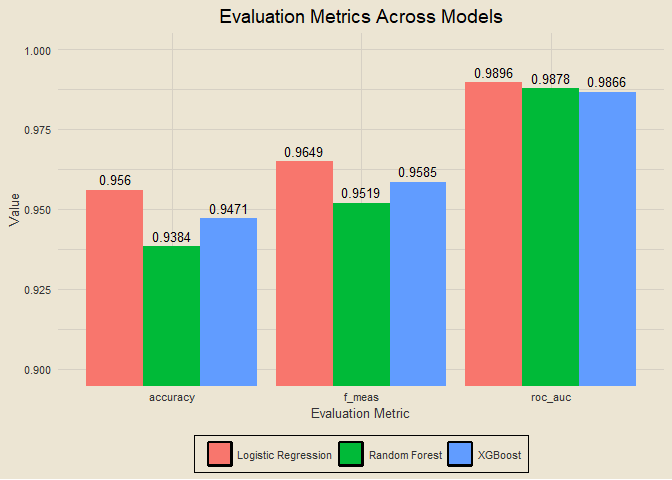
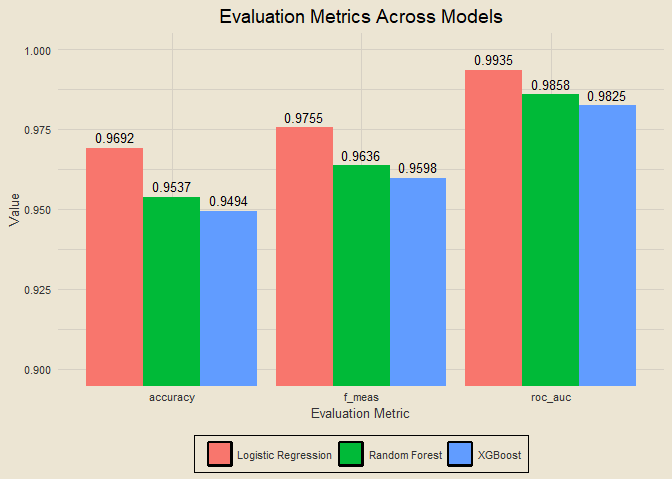
new commit

Changed region(s): [[0.125, 0.2812, 0.4062, 0.5312], [0.4062, 0.2188, 0.6562, 0.4375], [0.6875, 0.0938, 0.9688, 0.2188]]

diff --git a/README.md b/README.md
@@ -15,6 +15,8 @@ Link](https://www.kaggle.com/datasets/uciml/breast-cancer-wisconsin-data)
 - [Checking for Missing Data](#checking-for-missing-data)
 - [Exploratory Data Analysis](#exploratory-data-analysis)
 - [Modeling](#modeling)
+- [Final Metrics](#final-metrics)
+- [Script Runtime](#script-runtime)
 
 ### Setup
 
@@ -27,6 +29,7 @@ library(tvthemes)
 library(janitor)
 library(patchwork)
 library(ggcorrplot)
+library(vip)
 
 theme_custom = theme_avatar() +
   theme(plot.title = element_text(hjust = 0.5),
@@ -887,7 +890,7 @@ pre_rec = recipe(diagnosis ~ ., data = df2) |>
   # removes predictors with zero variance
   step_zv(all_predictors()) |>
   # removes highly-correlated predictors, we can control the threshold at which they are removed
-  step_corr(all_predictors(), threshold = 0.8, method = "spearman")
+  step_corr(all_predictors(), threshold = 0.9, method = "spearman")
 
 pre_rec
 ```
@@ -934,25 +937,26 @@ pre_rec |>
 
 </details>
 
-    ## # A tibble: 10 × 18
-    ##           id texture_…¹ area_…² smooth…³ symme…⁴ fract…⁵ radiu…⁶ textu…⁷ smoot…⁸
-    ##        <dbl>      <dbl>   <dbl>    <dbl>   <dbl>   <dbl>   <dbl>   <dbl>   <dbl>
-    ##  1   8911834     -0.956  -0.192 -0.0853    1.09  -0.604  -0.567  -0.539   -0.935
-    ##  2   8810158      0.756  -0.357  0.273     0.140  1.46   -0.765  -0.534   -0.596
-    ##  3  84667401      0.772  -0.218  1.19      0.939  1.99   -0.696  -0.0867  -0.204
-    ##  4    884689     -1.01   -0.706  0.351     0.260 -0.158  -0.537  -0.324   -0.126
-    ##  5   9113514     -0.277  -1.05  -0.942    -0.480  0.187  -0.229   0.172    1.31 
-    ##  6   8812816     -1.43   -0.244  0.00709  -1.65   0.0910 -0.703  -1.42    -0.969
-    ##  7 911320502     -0.249  -0.334 -1.54     -1.30  -1.04   -0.732  -0.964   -0.357
-    ##  8    895299     -0.316  -0.594 -1.39     -1.57  -0.297  -0.619  -0.557   -0.770
-    ##  9    921092      1.44   -1.35  -1.09      0.213  1.42   -0.0991  0.444    1.87 
-    ## 10   8810436     -1.48    0.201 -1.03     -1.65  -1.07   -0.692  -1.55    -0.916
-    ## # … with 9 more variables: compactness_se <dbl>, concave_points_se <dbl>,
-    ## #   symmetry_se <dbl>, fractal_dimension_se <dbl>, smoothness_worst <dbl>,
+    ## # A tibble: 10 × 20
+    ##          id texture_…¹ area_…² smooth…³ conca…⁴ symme…⁵ fract…⁶ radiu…⁷ textur…⁸
+    ##       <dbl>      <dbl>   <dbl>    <dbl>   <dbl>   <dbl>   <dbl>   <dbl>    <dbl>
+    ##  1   868682     -0.907 -0.725   0.00211 -0.520   -0.283  -0.587  -0.827 -4.04e-1
+    ##  2   869254     -1.00  -0.851  -1.31    -1.06    -1.51   -0.838  -0.551  4.01e-2
+    ##  3  8712853     -0.544  0.0881  0.156   -0.286   -0.115  -0.892  -0.483  2.66e-4
+    ##  4   925311      2.34  -0.764  -1.56    -1.26    -2.74   -1.10   -0.328  4.86e+0
+    ##  5   911654      0.288 -0.104  -0.501   -0.473   -1.11   -0.383  -0.207 -3.60e-1
+    ##  6   859575      0.470  1.35   -0.446    0.788   -0.838  -1.16    1.38  -7.60e-1
+    ##  7   905190      0.484 -0.399  -1.48    -0.780   -0.845  -0.235   0.339  1.05e+0
+    ##  8   877486      0.744  1.40   -0.791    0.485   -0.163  -1.06    0.110 -2.61e-1
+    ##  9 88143502     -1.35  -0.0389  0.192   -0.0745   0.961  -1.18    0.421 -7.34e-1
+    ## 10  8911670      0.161  1.27   -0.507    0.245   -0.954  -1.82   -0.277 -7.05e-1
+    ## # … with 11 more variables: smoothness_se <dbl>, compactness_se <dbl>,
+    ## #   concavity_se <dbl>, concave_points_se <dbl>, symmetry_se <dbl>,
+    ## #   fractal_dimension_se <dbl>, smoothness_worst <dbl>,
     ## #   compactness_worst <dbl>, symmetry_worst <dbl>,
     ## #   fractal_dimension_worst <dbl>, diagnosis <fct>, and abbreviated variable
-    ## #   names ¹texture_mean, ²area_mean, ³smoothness_mean, ⁴symmetry_mean,
-    ## #   ⁵fractal_dimension_mean, ⁶radius_se, ⁷texture_se, ⁸smoothness_se
+    ## #   names ¹texture_mean, ²area_mean, ³smoothness_mean, ⁴concave_points_mean,
+    ## #   ⁵symmetry_mean, ⁶fractal_dimension_mean, ⁷radius_se, ⁸texture_se
 
 ### Building Cross Validation Folds
 
@@ -1038,9 +1042,9 @@ log_res |>
     ## # A tibble: 3 × 3
     ##   .metric   mean std_err
     ##   <chr>    <dbl>   <dbl>
-    ## 1 accuracy 0.956 0.00597
-    ## 2 f_meas   0.965 0.00488
-    ## 3 roc_auc  0.990 0.00372
+    ## 1 accuracy 0.969 0.0101 
+    ## 2 f_meas   0.975 0.00802
+    ## 3 roc_auc  0.994 0.00257
 
 ### Building Random Forest Specification and Workflow
 
@@ -1105,9 +1109,9 @@ rf_res |>
     ## # A tibble: 3 × 3
     ##   .metric   mean std_err
     ##   <chr>    <dbl>   <dbl>
-    ## 1 accuracy 0.938 0.0145 
-    ## 2 f_meas   0.952 0.0109 
-    ## 3 roc_auc  0.988 0.00454
+    ## 1 accuracy 0.954 0.0122 
+    ## 2 f_meas   0.964 0.00956
+    ## 3 roc_auc  0.986 0.00757
 
 ### Building XGBoost Specification and Workflow
 
@@ -1169,9 +1173,9 @@ xgb_res |>
     ## # A tibble: 3 × 3
     ##   .metric   mean std_err
     ##   <chr>    <dbl>   <dbl>
-    ## 1 accuracy 0.947 0.0145 
-    ## 2 f_meas   0.958 0.0111 
-    ## 3 roc_auc  0.987 0.00586
+    ## 1 accuracy 0.949 0.0108 
+    ## 2 f_meas   0.960 0.00857
+    ## 3 roc_auc  0.982 0.00789
 
 ### Comparing Model Results
 
@@ -1215,11 +1219,12 @@ three_mod_res |>
 
 ![](README_files/figure-gfm/unnamed-chunk-50-1.png)<!-- -->
 
-After this initial modeling step, we have achieved an accuracy of 95.6%,
-an F1 score of 96.49%, and an AUC value of 98.96% with a logistic
-regression model. We have achieved similar results with our random
-forest and XGBoost models as well, and will now tune the hyperparameters
-for those models to see if we can improve upon our current results.
+After this initial modeling step, we have achieved an accuracy of
+96.92%, an F1 score of 97.55%, and an AUC value of 99.35% with a
+logistic regression model. We have achieved similar results with our
+random forest and XGBoost models as well, and will now tune the
+hyperparameters for those models to see if we can improve upon our
+current results.
 
 ### Random Forest Tuning
 
@@ -1260,11 +1265,11 @@ tune_res |>
     ## # A tibble: 5 × 8
     ##    mtry min_n .metric  .estimator  mean     n std_err .config              
     ##   <int> <int> <chr>    <chr>      <dbl> <int>   <dbl> <chr>                
-    ## 1     2    11 accuracy binary     0.945     5  0.0125 Preprocessor1_Model20
-    ## 2     2    18 accuracy binary     0.941     5  0.0141 Preprocessor1_Model04
-    ## 3     9     5 accuracy binary     0.941     5  0.0169 Preprocessor1_Model06
-    ## 4    14     8 accuracy binary     0.938     5  0.0169 Preprocessor1_Model16
-    ## 5     5    16 accuracy binary     0.938     5  0.0189 Preprocessor1_Model18
+    ## 1     5     3 accuracy binary     0.956     5  0.0125 Preprocessor1_Model05
+    ## 2     4     9 accuracy binary     0.956     5  0.0125 Preprocessor1_Model25
+    ## 3     2    17 accuracy binary     0.956     5  0.0120 Preprocessor1_Model04
+    ## 4     2    29 accuracy binary     0.954     5  0.0145 Preprocessor1_Model08
+    ## 5     3    25 accuracy binary     0.952     5  0.0108 Preprocessor1_Model12
 
 ### XGBoost Tuning
 
@@ -1300,11 +1305,11 @@ xgb_res |>
     ## # A tibble: 5 × 12
     ##    mtry min_n tree_depth learn_rate loss_r…¹ sampl…² .metric .esti…³  mean     n
     ##   <int> <int>      <int>      <dbl>    <dbl>   <dbl> <chr>   <chr>   <dbl> <int>
-    ## 1    32    12         14 0.00542     2.17e-9   0.810 roc_auc binary  0.983     5
-    ## 2     7     2          6 0.00000995  1.61e-6   0.829 roc_auc binary  0.978     5
-    ## 3     2    14         11 0.00122     5.90e-3   0.636 roc_auc binary  0.975     5
-    ## 4    14    22         12 0.0176      4.34e-4   0.891 roc_auc binary  0.973     5
-    ## 5     2     6         10 0.00000320  2.72e-7   0.313 roc_auc binary  0.972     5
+    ## 1    28     8         15  0.0745    7.18e- 4   0.861 roc_auc binary  0.990     5
+    ## 2     5     3          8  0.00581   2.62e-10   0.529 roc_auc binary  0.989     5
+    ## 3    25     5          8  0.0238    5.00e- 8   0.300 roc_auc binary  0.985     5
+    ## 4    15    13          9  0.0000187 4.27e- 8   0.919 roc_auc binary  0.984     5
+    ## 5    23     6          4  0.00674   2.16e- 1   0.345 roc_auc binary  0.984     5
     ## # … with 2 more variables: std_err <dbl>, .config <chr>, and abbreviated
     ## #   variable names ¹loss_reduction, ²sample_size, ³.estimator
 
@@ -1349,12 +1354,87 @@ data.frame(model = c("Logistic Regression", "Random Forest", "XGBoost"),
   ggplot(aes(metric, value)) +
   geom_col(aes(fill = model), position = "dodge") +
   geom_text(aes(label = value), position = position_dodge2(width = 0.9), vjust = -0.5, size = 3.5) +
-  labs(title = "Post-Tuning Model Comparison", fill = NULL, x = "Evaluation Metric", y = "Value")
+  labs(title = "Post-Tuning Model Comparison", fill = NULL, x = "Evaluation Metric", y = "Value") +
+  coord_cartesian(ylim = c(0, 1.05))
 ```
 
 </details>
 
 ![](README_files/figure-gfm/unnamed-chunk-53-1.png)<!-- -->
+
+After model tuning, it looks like the best model is either our logistic
+regression or random forest. The logistic regression tends to have a
+higher accuracy, but the random forest tends to have a larger area under
+the curve. I’ll choose to move forward with the random forest.
+
+### Finalizing Model
+
+<details>
+<summary>
+View Code
+</summary>
+
+``` r
+best_auc = select_best(tune_res, metric = "roc_auc")
+final_rf = finalize_model(tune_spec, best_auc)
+final_rf
+```
+
+</details>
+
+    ## Random Forest Model Specification (classification)
+    ## 
+    ## Main Arguments:
+    ##   mtry = 4
+    ##   trees = 1000
+    ##   min_n = 9
+    ## 
+    ## Computational engine: ranger
+
+### Fitting Final Model and Getting Variable Importance
+
+<details>
+<summary>
+View Code
+</summary>
+
+``` r
+final_rf |>
+  set_engine("ranger", importance = "permutation") |>
+  fit(diagnosis ~ ., data = juice(prep(pre_rec)) |> select(-id)) |>
+  vip(geom = "point")
+```
+
+</details>
+
+![](README_files/figure-gfm/unnamed-chunk-55-1.png)<!-- -->
+
+### Final Metrics
+
+<details>
+<summary>
+View Code
+</summary>
+
+``` r
+final_wf = workflow() |>
+  add_recipe(pre_rec) |>
+  add_model(final_rf)
+
+final_res = final_wf |>
+  last_fit(data_split)
+
+final_res |>
+  collect_metrics()
+```
+
+</details>
+
+    ## # A tibble: 2 × 4
+    ##   .metric  .estimator .estimate .config             
+    ##   <chr>    <chr>          <dbl> <chr>               
+    ## 1 accuracy binary         0.939 Preprocessor1_Model1
+    ## 2 roc_auc  binary         0.987 Preprocessor1_Model1
 
 ### Script Runtime
 
@@ -1362,4 +1442,4 @@ data.frame(model = c("Logistic Regression", "Random Forest", "XGBoost"),
 tictoc::toc()
 ```
 
-    ## 140.57 sec elapsed
+    ## 143.21 sec elapsed
